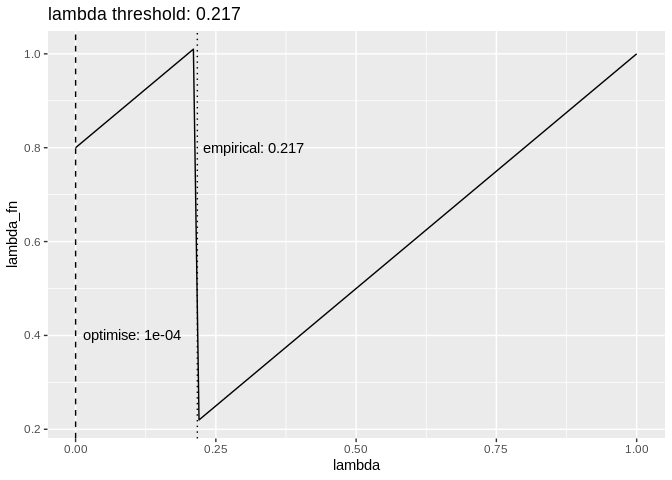
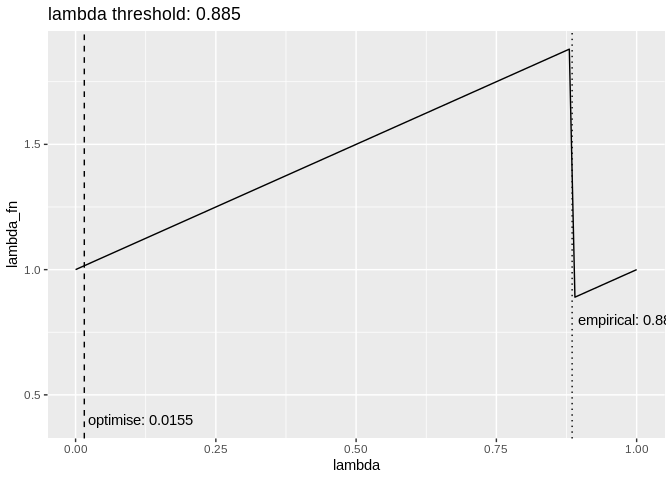
oops :notes:

diff --git a/README.md b/README.md
@@ -38,17 +38,17 @@ library(lambda)
 set.seed(38)
 
 # grab `probability data` between 0 and 1
-some_data <- rnorm(100)
+some_data <- runif(100)
 
 some_data %>% skim()
 #> 
 #> Skim summary statistics
 #> 
 #> ── Variable type:numeric ───────────────────────────────────────────────────────────────────────────
-#>  variable missing complete   n  mean   sd    p0   p25    p50  p75 p100
-#>         .       0      100 100 0.015 0.93 -2.06 -0.43 -0.013 0.58 2.35
+#>  variable missing complete   n mean   sd    p0  p25  p50  p75 p100
+#>         .       0      100 100  0.5 0.29 0.015 0.29 0.51 0.75 0.99
 #>      hist
-#>  ▁▂▂▇▃▃▁▁
+#>  ▇▂▅▅▆▅▇▅
 
 ## lambda_inf finds the infinum of the lambda function
 
